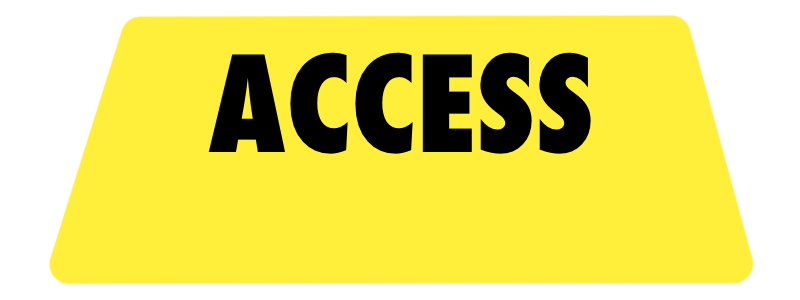
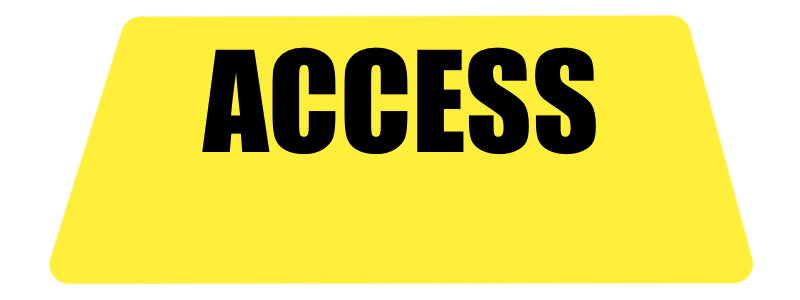
結局いいデザイン思いつかなかった

Changed region(s): [[0.25, 0.15, 0.75, 0.54]]

diff --git a/app/page.tsx b/app/page.tsx
@@ -84,66 +84,64 @@ export default function Home() {
 
 
           <DevOnly>
-            <>
-              {/** マップ */}
-              <section className='headbox mapbox-up'>
-                <Image
-                  className="top_index"
-                  src="/welcome/index_search.png"
-                  alt=""
-                  width={800}
-                  height={300}
-                  priority
-                />
-                {/** <TopSelect /> */}
-                <div className="test-content"></div>
-              </section>
+            <div className="mid_header">
+              <div className="mid_contenter">
+                {/** マップ */}
+                <section className='headbox mapbox-up'>
+                  <Image
+                    className="top_index"
+                    src="/welcome/index_search.png"
+                    alt=""
+                    width={800}
+                    height={300}
+                    priority
+                  />
+                  <TopSelect />
+                </section>
 
-              {/** フォーム */}
-              <section className='headbox formbox-up '>
-                <Image
-                  className="top_index"
-                  src="/welcome/index_form.png"
-                  alt=""
-                  width={800}
-                  height={300}
-                  priority
-                />
-                {/** <Form /> */}
-                <div className="test-content"></div>
-              </section>
+                {/** フォーム */}
+                <section className='headbox formbox-up'>
+                  <Image
+                    className="top_index"
+                    src="/welcome/index_form.png"
+                    alt=""
+                    width={800}
+                    height={300}
+                    priority
+                  />
+                  <Form />
+                </section>
 
-              {/** ニュース */}
-              <section className="headbox newsbox-up">
-                <Image
-                  className="top_index"
-                  src="/welcome/index_news.png"
-                  alt=""
-                  width={800}
-                  height={300}
-                  priority
-                />
-                {/** <Announce /> */}
-                <div className="test-content"></div>
-              </section>
+                {/** ニュース */}
+                <section className="headbox newsbox-up">
+                  <Image
+                    className="top_index"
+                    src="/welcome/index_news.png"
+                    alt=""
+                    width={800}
+                    height={300}
+                    priority
+                  />
+                  <Announce />
+                </section>
 
-              {/** アクセス */}
-              <section className='headbox accessbox-up'>
-                <Image
-                  className="top_index"
-                  src="/welcome/index_access.png"
-                  alt=""
-                  width={800}
-                  height={300}
-                  priority
-                />
-                {/** <Access /> */}
-                <div className="test-content"></div>
-              </section>
+                {/** アクセス */}
+                <section className='headbox accessbox-up'>
+                  <Image
+                    className="top_index"
+                    src="/welcome/index_access.png"
+                    alt=""
+                    width={800}
+                    height={300}
+                    priority
+                  />
+                  <Access />
+                </section>
 
-              {/** フッターコンテンツ */}
-              {/** <Footer /> */}
-            </>
+                {/** フッターコンテンツ */}
+                {/** <Footer /> */}
+              </div>
+            </div>
           </DevOnly>
         </div>
       </div>

diff --git a/app/homepage.css b/app/homepage.css
@@ -2,11 +2,6 @@
     margin: 0;
 }
 
-.test-content {
-    width: 100%;
-    height: 80vh;
-}
-
 .img,
 .svg {
     display: block;
@@ -23,12 +18,18 @@
 
 /** ヘッダーの共通デザイン **/
 
-.top_index {
-    position: absolute;
-    width: clamp(200px, 30vw, 280px);
-    z-index: -1;
-    top: clamp(-60px, -6vw, -42px);
-    left: -10px;
+.mid_header {
+    width: 100%;
+    display: flex;
+    flex-direction: column;
+    align-items: center;
+}
+
+.mid_contenter {
+    width: 90%;
+    max-width: 1500px;
+    display: flex;
+    flex-direction: column;
 }
 
 .slidebox-animation {
@@ -38,8 +39,17 @@
 
 .headbox {
     position: relative;
-    z-index: 3;
+    margin-top: 30px;
     padding-bottom: 30px;
+    margin-bottom: 50px;
+}
+
+.top_index {
+    position: absolute;
+    width: 280px;
+    z-index: -1;
+    top: -63px;
+    left: 10px;
 }
 
 .box-up {
@@ -53,21 +63,35 @@
     overflow: hidden;
 }
 
+@media (max-width:767px) {
+    .top_index {
+        position: absolute;
+        width: 200px;
+        z-index: -1;
+        top: -46px;
+        left: 10px;
+    }
+}
+
 /** ニュースのヘッダーカラー **/
 .newsbox-up {
-    background-color: #ff9d00;
+    border-top: #ff9d00 5px solid;
+    background-color: #ffffff;
 }
 
 .mapbox-up {
-    background-color: #ff3d16;
+    border-top: #ff3d16 5px solid;
+    background-color: #ffffff;
 }
 
 .formbox-up {
-    background-color: #00a5ff;
+    border-top: #00a5ff 5px solid;
+    background-color: #ffffff;
 }
 
 .accessbox-up {
-    background-color: #ffef3b;
+    border-top: #ffef3b 5px solid;
+    background-color: #ffffff;
 }
 
 /** ヘッダー(一番最初のトップデザイン) **/
@@ -77,7 +101,6 @@
     width: 100%;
     min-height: 90vh;
     overflow: hidden;
-    background-color: #fff;
     margin-bottom: 20px;
 }
 

diff --git a/components/announce/announce.css b/components/announce/announce.css
@@ -17,36 +17,13 @@
     padding: 0em 1em 0 1em;
 }
 
-.blackboard-box::before {
-    z-index: 7;
-    position: absolute;
-    right: 1em;
-    content: "";
-    width: 20vw;
-    height: 20vw;
-    border-top: 2px dashed #000;
-    border-right: 2px dashed #000;
-}
-
-.blackboard-box::after {
-    z-index: 7;
-    position: absolute;
-    left: 1em;
-    bottom: 1em;
-    content: "";
-    width: 20vw;
-    height: 20vw;
-    border-bottom: 2px dashed #000;
-    border-left: 2px dashed #000;
-}
-
 .blackboard-box::-webkit-scrollbar {
     display: none;
 }
 
 .box-010 {
     position: relative;
-    width: 90%;
+    width: 100%;
     margin: 3em auto;
     padding: 2.5em 1.5em 1.5em;
     border: 2px #151515 solid;
@@ -102,7 +79,7 @@
     }
 
     .blackboard-box {
-        width: 93%;
+        width: 100%;
         max-height: 75vh;
     }
 }
